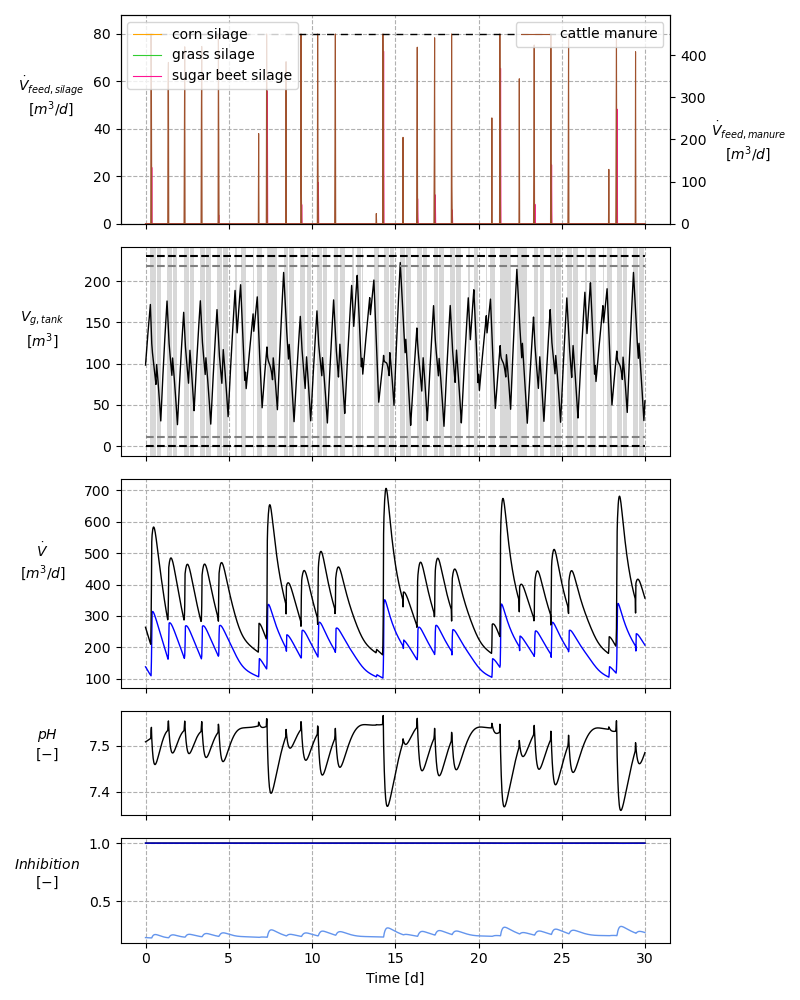
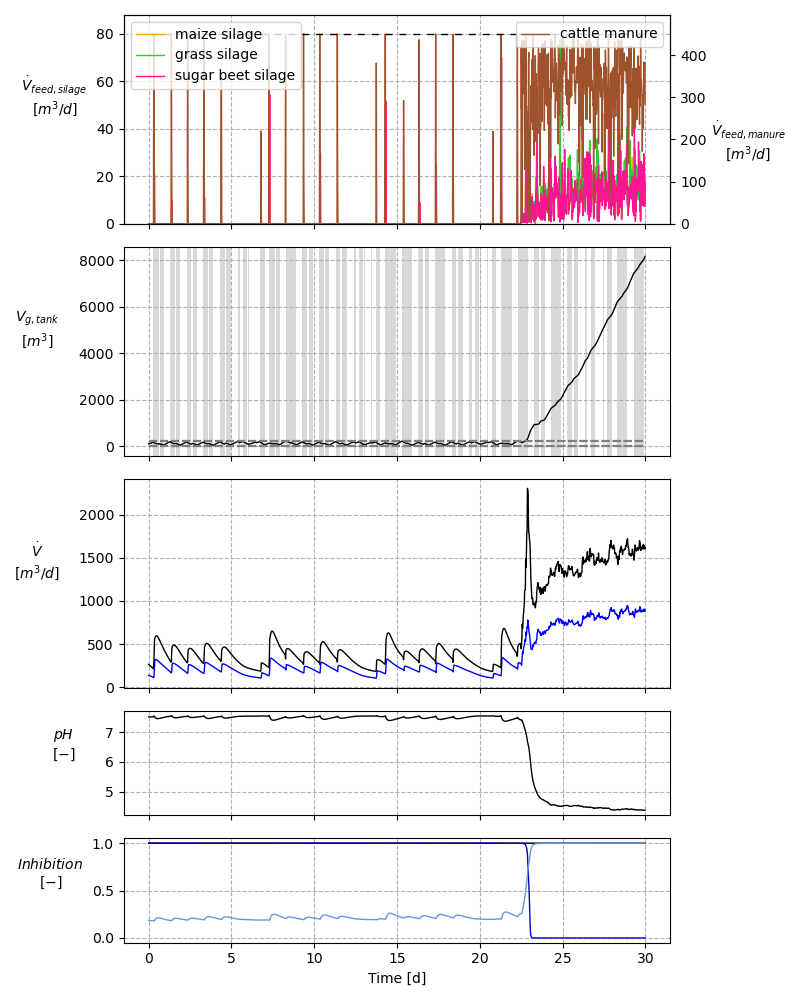
update plots of Sc. 2a nominal mismatch

diff --git a/ad_meal_prep_control/plot_generation/plot_scenario_2a.py b/ad_meal_prep_control/plot_generation/plot_scenario_2a.py
@@ -11,9 +11,9 @@ from ad_meal_prep_control.plot_generation.Controller_output_plotting.Output_Scen
 )
 
 scenario_names = [
-    "Scenario_2a_dynamic_nominal_feedback_mismatch_3std_8tsap",
+    "Scenario_2a_dynamic_nominal_feedback_mismatch_1std_8tsap",
     "Scenario_2a_dynamic_nominal_ideal_feedback_8tsap",
-    "Scenario_2a_dynamic_robust_feedback_mismatch_3std_8tsap",
+    "Scenario_2a_dynamic_robust_feedback_mismatch_1std_8tsap",
 ]
 plot_save_names = scenario_names
 

diff --git a/ad_meal_prep_control/scenarios/scenario_2a_nominal.py b/ad_meal_prep_control/scenarios/scenario_2a_nominal.py
@@ -20,7 +20,7 @@ cost_func = CostFunction(lterm=lterm, mterm=mterm)
 
 # user input:
 n_days_mpc = 30  # length of simulation [d]
-n_std_dev = 3  # number std deviations
+n_std_dev = 1  # number std deviations
 t_stp_ahead_pred = 8  # for controller plotting
 
 controller_params = ControllerParams(
